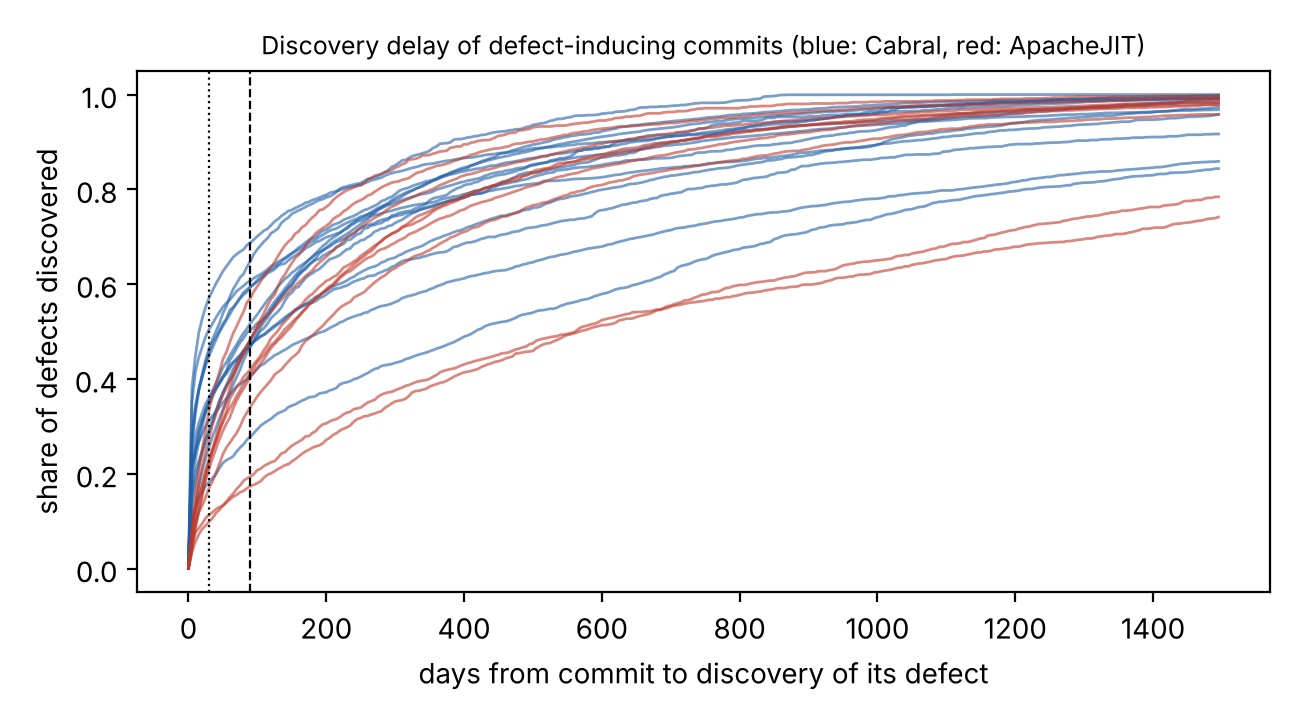
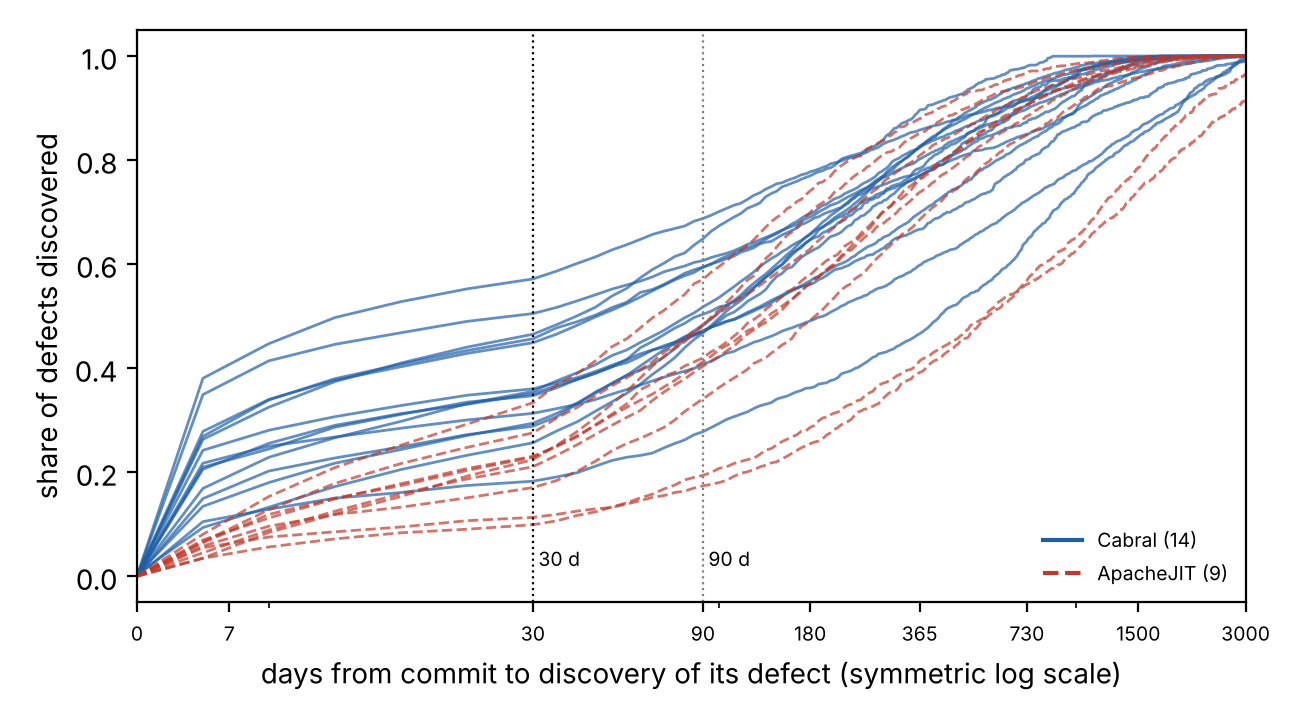
WIP review round 2: manuscript v3 edits in progress (abstract, contributions, related-work corrections, Section 3), figures 1-2 redrawn, partial B1 runs
Claude-Session: https://claude.ai/code/session_01X8Hq385hhQTCDDeL4of4ap

diff --git a/project/scripts/paper_numbers.py b/project/scripts/paper_numbers.py
@@ -32,7 +32,7 @@ for p in DEV + TEST + AJ:
                      commits=len(d), years=round((d.t.max() - d.t.min()) / DAY / 365.25, 1), defect_rate=d.y.mean(),
                      median_delay_d=np.median(dl[fin]), p90_delay_d=np.percentile(dl[fin], 90),
                      found_after_90d=float((dl[fin] > 90).mean())))
-    g = np.arange(0, 1500, 5); curves[p] = (g, [(dl[fin] <= a).mean() for a in g])
+    g = np.arange(0, 3001, 5); curves[p] = (g, [(dl[fin] <= a).mean() for a in g])
 T1 = pd.DataFrame(rows).set_index("project")
 md(T1.round({"defect_rate": 3, "median_delay_d": 0, "p90_delay_d": 0, "found_after_90d": 3}), "T1_datasets.md")
 N["n_commits_total"] = int(T1.commits.sum()); N["n_projects"] = len(T1)
@@ -45,10 +45,15 @@ for fam in ["Cabral", "ApacheJIT"]:
     N[f"{fam}_commits"] = int(t.commits.sum())
 fig, ax = plt.subplots(figsize=(6.5, 3.6))
 for p, (g, c) in curves.items():
-    ax.plot(g, c, color="#c0392b" if p.startswith("aj_") else "#1f5fa8", alpha=.6, lw=1)
-ax.axvline(30, ls=":", c="k", lw=.8); ax.axvline(90, ls="--", c="k", lw=.8)
-ax.set_xlabel("days from commit to discovery of its defect"); ax.set_ylabel("share of defects discovered")
-ax.set_title("Discovery delay of defect-inducing commits (blue: Cabral, red: ApacheJIT)", fontsize=9)
+    aj = p.startswith("aj_")
+    ax.plot(g, c, color="#c0392b" if aj else "#1f5fa8", ls="--" if aj else "-", alpha=.7, lw=1)
+ax.axvline(30, ls=":", c="k", lw=.8); ax.axvline(90, ls=":", c="grey", lw=.8)
+ax.text(30, 0.02, " 30 d", fontsize=7); ax.text(90, 0.02, " 90 d", fontsize=7)
+from matplotlib.lines import Line2D
+ax.legend([Line2D([], [], color="#1f5fa8", ls="-"), Line2D([], [], color="#c0392b", ls="--")], ["Cabral (14)", "ApacheJIT (9)"], fontsize=7, frameon=False, loc="lower right")
+ax.set_xscale("symlog", linthresh=30); ax.set_xlim(0, 3000)
+ax.set_xticks([0, 7, 30, 90, 180, 365, 730, 1500, 3000]); ax.set_xticklabels(["0", "7", "30", "90", "180", "365", "730", "1500", "3000"], fontsize=7)
+ax.set_xlabel("days from commit to discovery of its defect (symmetric log scale)"); ax.set_ylabel("share of defects discovered")
 fig.tight_layout(); fig.savefig(P / "figures" / "F1_discovery_delay.png", dpi=200); plt.close(fig)
 
 # ---------------------------------------------------------------- T2 RQ1 label noise under waiting (model-free)
@@ -83,16 +88,20 @@ N["rq2_gap_share_aj_W30"] = S["E8_secondary_H3_decomposition"]["gap_recovered_sh
 N["rq2_gap_share_aj_per_project_range"] = [min(S["E8_secondary_H3_decomposition"]["gap_recovered_share_per_project"].values()), max(S["E8_secondary_H3_decomposition"]["gap_recovered_share_per_project"].values())]
 N["rq2_tests_cabral"] = S["E3b_H3_denoised_W30_vs_wait"]; N["rq2_tests_aj"] = S["E8_secondary_H3_replication"]
 SH = json.load(open(R / "review1" / "shapley.json"))
-fig, axs = plt.subplots(1, 2, figsize=(8, 3.4), sharey=True)
-for ax, (fam, P_, lab, col) in zip(axs, [("cabral_test", TEST, "Cabral test (10)", "#1f5fa8"), ("apachejit", AJ, "ApacheJIT (9)", "#c0392b")]):
-    for k, (metric, mk) in enumerate([("gmean", "o"), ("auc", "s")]):
+fig, axs = plt.subplots(1, 2, figsize=(8, 3.6), sharey=True)
+for ax, (fam, P_, lab, col), letter in zip(axs, [("cabral_test", TEST, "Cabral test (10)", "#1f5fa8"), ("apachejit", AJ, "ApacheJIT (9)", "#c0392b")], "ab"):
+    for k, metric in enumerate(["gmean", "auc"]):
         g = SH[f"{fam}_{metric}"]["per_project_abs_gain_L1_minus_wait"]; gap = SH[f"{fam}_{metric}"]["per_project_gap_oracle_minus_wait"]
-        names = list(g); x = np.arange(len(names)) + (k - 0.5) * 0.35
-        ax.bar(x, [gap[n] for n in names], width=0.35, color="none", edgecolor=col, lw=1, label=f"oracle - Wait-30 ({metric.upper() if metric=='auc' else 'G-mean'})" if True else None)
-        ax.bar(x, [g[n] for n in names], width=0.35, color=col, alpha=0.9 if metric == "gmean" else 0.45, label=f"true labels - Wait-30 ({'AUC' if metric=='auc' else 'G-mean'})")
+        names = list(g); x = np.arange(len(names)) + (k - 0.5) * 0.38
+        ax.bar(x, [g[n] for n in names], width=0.38, color=col, alpha=0.9 if metric == "gmean" else 0.4, hatch=None if metric == "gmean" else "///", edgecolor="white", lw=0)
+        ax.scatter(x, [gap[n] for n in names], marker="_", s=90, c="k", zorder=3, lw=1.6)
     ax.set_xticks(np.arange(len(names))); ax.set_xticklabels(names, rotation=60, ha="right", fontsize=7); ax.axhline(0, c="k", lw=.6)
-    ax.set_xlabel(lab, fontsize=8)
-axs[0].set_ylabel("absolute difference"); axs[1].legend(fontsize=6, loc="upper right")
+    ax.set_xlabel(lab, fontsize=8); ax.text(0.01, 0.97, f"({letter})", transform=ax.transAxes, va="top", fontsize=9, weight="bold")
+from matplotlib.patches import Patch
+from matplotlib.lines import Line2D as _L
+axs[0].set_ylabel("absolute difference")
+axs[1].legend([Patch(color="grey", alpha=0.9), Patch(facecolor="grey", alpha=0.4, hatch="///"), _L([], [], marker="_", ls="", c="k", ms=10, mew=1.6)],
+              ["true-label gain over Wait-30, G-mean (left bar)", "same, AUC (right bar)", "gap oracle - Wait-30 (same metric)"], fontsize=6, loc="upper right", frameon=False)
 fig.tight_layout(); fig.savefig(P / "figures" / "F2_gap_recovered.png", dpi=200); plt.close(fig)
 for k in SH: N["review1_" + k] = {kk: vv for kk, vv in SH[k].items()}
 rows3b = []
@@ -267,6 +276,26 @@ N["lineage2_odasc_tests"] = [_cmp0(_l2.loc["odasc_W30"], _l2.loc["wait_W90"], "l
 _e8 = df[(df.experiment == "E8") & df.project.isin(AJ)].groupby(["variant", "project"]).gmean.mean().unstack()[AJ]
 _d = (_e8.loc["odasc_W30_t0.8"] - _e8.loc["wait_W90"]); _n = len(_d)
 N["h6_paired_sd"] = f4(_d.std(ddof=1)); N["h6_mde_80pct_unadjusted"] = f3((_st0.t.ppf(0.975, _n - 1) + _st0.t.ppf(0.8, _n - 1)) * _d.std(ddof=1) / np.sqrt(_n))
+
+# ---------------------------------------------------------------- review round 2 numbers (plan_v9 and reviewer requests)
+_e1 = df[(df.experiment == "E1") & df.project.isin(TEST)].groupby(["variant", "project"]).auc.mean().unstack()[TEST]
+_e3b = df[(df.experiment == "E3b") & df.project.isin(TEST)].groupby(["variant", "project"]).auc.mean().unstack()[TEST]
+N["r2_auc_law_vs_wait90_cabral"] = _cmp0(_e1.loc["law_lagakos_model"], _e1.loc["wait_W90"], "AUC: LAW vs Wait-90 (Cabral test)")
+N["r2_auc_wait30_vs_wait90_cabral"] = _cmp0(_e3b.loc["wait_W30"], _e3b.loc["wait_W90"], "AUC: Wait-30 vs Wait-90 (Cabral test)")
+N["r2_auc_wait30_cabral"] = f3(_e3b.loc["wait_W30"].mean())
+N["r2_simple_effects_window"] = {fam: {m: dict(observed_labels=f3(SH[f"{fam}_{m}"]["cells_mean"]["nowait"] - SH[f"{fam}_{m}"]["cells_mean"]["wait_W30"]),
+                                               true_labels=f3(SH[f"{fam}_{m}"]["cells_mean"]["oracle"] - SH[f"{fam}_{m}"]["cells_mean"]["L1_W30"])) for m in ["auc", "gmean"]}
+                                 for fam in ["cabral_test", "apachejit"]}
+_nd = {}
+for _p in DEV + TEST:
+    _dd = load_project(_p); _nd[_p] = int(((_dd.y == 1) & ~np.isfinite(_dd.t_found)).sum())
+N["cabral_defective_never_discovered_total"] = int(sum(_nd.values()))
+N["h6_mde_80pct_holm2"] = f3((_st0.t.ppf(1 - 0.025 / 2, _n - 1) + _st0.t.ppf(0.8, _n - 1)) * _d.std(ddof=1) / np.sqrt(_n))
+FC = json.load(open(R / "review1" / "flip_counts.json"))
+N["b2_flip_share"] = {}
+for fam, P_ in [("cabral_test", TEST), ("apachejit", AJ)]:
+    for W in ["30", "90"]:
+        f_ = np.array([FC[p][W]["flips"] for p in P_]); N["b2_flip_share"][f"{fam}_W{W}"] = [f3(x) for x in (f_ / f_.sum(1, keepdims=True)).mean(0)]
 
 # ---------------------------------------------------------------- bookkeeping numbers
 vt = pd.read_csv(ROOT / "state" / "variants_tried.csv"); vta = pd.read_csv(ARCH / "state" / "variants_tried.csv")

diff --git a/project/paper/manuscript.md b/project/paper/manuscript.md
@@ -6,26 +6,7 @@
 
 ## Abstract
 
-**Context.** Online just-in-time software defect prediction (JIT-SDP) flags risky commits as they arrive and retrains as labels come in. A commit's defect label is known only after a later fix is traced back to it, which takes a median of 16–568 days per project in our data. The usual remedy is to wait W days before trusting a "clean" label, which is read as a trade-off between label noise and stale data.
-
-**Objective.** We measure how much of the accuracy lost to this verification latency comes from wrong labels and how much from missing recent data, which commits carry the harmful labels, and whether practical corrections recover the loss.
-
-**Method.** We use a prequential simulation with one shared LightGBM learner on 23 projects (331,937 commits):
-- 4 Cabral et al. projects for development;
-- 10 held-out Cabral projects;
-- 9 ApacheJIT projects as a fresh confirmation set.
-
-A 2×2 factorial design (labels observed/true × training window waited/complete) with a Shapley split and project-bootstrap intervals separates the two causes. Confirmatory runs used configurations committed to the repository before the run.
-
-**Results.**
-- **W = 30.** True labels on the same waited-out training commits close 0.81 [0.74, 0.86] (Cabral test) and 0.92 [0.89, 0.95] (ApacheJIT) of the AUC gap to an oracle. Adding the recent commits contributes nothing on average (Shapley freshness effect −0.004 and −0.001 AUC).
-- **W = 90, the tuned wait.** Labels remain the larger factor (Shapley share 0.74 and 0.97 of the AUC gap). On Cabral, recent data also matters (+0.023 AUC), but only once its labels are correct.
-- **Where the harmful labels sit.** Relabelling only training commits aged 30–180 days yields 0.83 (Cabral) and 0.49 (ApacheJIT) of the full AUC gain. Relabelling commits older than one year adds at most 0.004.
-- **Age-only corrections** do not beat a 90-day wait.
-- **Feature-based denoisers** beat it on the reused Cabral test set but tie it on fresh data.
-- **A latency-aware decision threshold** repairs policies with a distorted class prior (No-wait +0.0695 G-mean on ApacheJIT, 9/0, Holm p = 0.027) but adds nothing to well-calibrated ones.
-
-**Conclusion.** The latency penalty is mainly caused by defects that are one to six months old and still undiscovered. Methods should target these commits, and studies should report ranking and operating-point metrics separately.
+Online just-in-time software defect prediction (JIT-SDP) retrains while the labels of recent commits are still unknown: a defect is found only when a later fix points back to it, a median of 16–568 days later in our data. The usual remedy, waiting W days before trusting a "clean" label, is read as a trade-off between label noise and stale data. We ask how much of the resulting accuracy loss is caused by wrong labels and how much by missing recent data, which commits carry the harmful labels, and whether practical corrections recover the loss. We run a prequential simulation with one shared learner on 23 projects (331,937 commits): 14 projects of Cabral et al. (4 for development) and 9 ApacheJIT projects as a fresh confirmation set, analysed with a 2×2 factorial design (labels observed or true × training window waited or complete). The two causes interact: recent commits help only once their labels are correct. For a 30-day wait, true labels on the same training commits close 0.81 (Cabral test) and 0.92 (ApacheJIT) of the AUC gap to an oracle. For the tuned 90-day wait they close 0.44 and 0.78, and a Shapley split still attributes most of the gap to labels (0.74 and 0.97). Training commits aged 30–180 days hold about a third of the false-clean labels but yield 0.83 and 0.49 of the AUC gain; commits older than a year yield almost none. Age-only corrections, feature-based denoisers and a latency-aware threshold did not reliably beat a 90-day wait on the fresh data. Methods should target recent defects that are still undiscovered.
 
 **Keywords:** just-in-time defect prediction; verification latency; label noise; online learning; data streams; empirical software engineering
 
@@ -37,31 +18,28 @@ Just-in-time software defect prediction (JIT-SDP) helps teams decide which incom
 
 In the projects studied here, discovery takes a median of 16 to 568 days per project, and the 90th percentile ranges from 383 to 2811 days (Table 1, Fig. 1). At any moment the most recent "clean" commits are therefore only *provisionally* clean. Fix-inducing changes are a moving target over time (McIntosh & Kamei 2018), and ignoring time order inflates offline estimates (Falessi et al. 2020).
 
-The established remedy is the *waiting-time* rule of Cabral et al. (2019): a commit is used as a clean training example only after W days without a discovered defect. Later work treats the choice of W as a trade-off between label noise and staleness and studies how to evaluate under it (Cabral & Minku 2023; Song et al. 2023a; Song & Minku 2023). Other work estimates the confidence of waited-out clean labels (ODaSC; Song et al. 2022) or brings in human labels (Song et al. 2023b). Recent journal papers on JIT-SDP, including MSTDP in this journal (Liu et al. 2026), evaluate offline with final labels and do not model verification latency.
+The established remedy is to wait: Tan et al. (2015) introduced a labelling gap for online defect prediction, and the *waiting-time* rule of Cabral et al. (2019) uses a commit as a clean training example only after W days without a discovered defect, while defective commits enter as soon as their defect is found. Later work treats the choice of W as a trade-off between label noise and staleness and studies how to evaluate under it (Cabral & Minku 2023; Song et al. 2023a; Song & Minku 2023). Other work estimates the confidence of waited-out clean labels (ODaSC; Song et al. 2022) or brings in human labels (Song et al. 2023b). Recent journal papers on JIT-SDP, including MSTDP in this journal (Liu et al. 2026), evaluate offline with final labels and do not model verification latency.
 
 Our own starting point was a method. Borrowing the delayed-feedback model of conversion-rate prediction (Chapelle 2014), we weighted each provisionally clean commit by the posterior probability that it hides an undiscovered defect, given its age. **It did not work.** On the ten held-out projects it lost to a tuned 90-day wait by 0.038 G-mean (Section 5.3).
 
-Diagnosing that failure changed the question. We first expected label noise to be a *small* part of the penalty, because waiting barely changes the share of false-clean labels (Section 5.1). We wrote down the hypothesis that true labels would recover less than a third of the gap between waiting and an oracle. **The hypothesis was refuted** (Section 5.2). This paper reports the resulting decomposition, revised and extended in response to reviewers, as an empirical study.
+Diagnosing that failure changed the question. We first expected label noise to be a *small* part of the penalty, because waiting barely changes the share of false-clean labels (Section 5.1). We wrote down the hypothesis that true labels would recover less than a third of the gap between waiting and an oracle. **The hypothesis was refuted** (Section 5.2). This paper reports the resulting decomposition as an empirical study.
 
 **Contributions.**
-1. **A factorial, commit-level decomposition of the online verification-latency penalty**, replicated on two dataset families (Section 5.2, Tables 3–4).
-   - For a 30-day wait the penalty is almost entirely label noise in AUC on both families.
-   - For the tuned 90-day wait labels remain the larger factor, but on Cabral recent data contributes as well, and the two factors interact: fresh data helps only once its labels are right.
-   - The design follows the noisy-versus-clean comparisons of Falessi et al. (2022) and Fan et al. (2021). Our contribution is to apply it to the online waiting setting and to separate noise from freshness.
-2. **Localisation of the harmful labels** (Section 5.2, Table 5, Fig. 3). The recoverable gain comes almost entirely from training commits aged 30–180 days. Relabelling commits older than one year adds nothing. The harmful labels are therefore neither the youngest commits, which waiting already removes, nor long-dormant defects, but defects one to six months old that have not yet been found.
+1. **A factorial decomposition of the online verification-latency penalty into label noise and lost freshness**, replicated on two dataset families (Section 5.2, Tables 3–4). Its main finding is that the two causes are entangled: the commits a wait excludes are the ones whose labels are wrong, and they become valuable only once their labels are right. For a 30-day wait the penalty is almost entirely label noise in AUC on both families; for the tuned 90-day wait the attribution depends on how the interaction is split. True-label comparisons have been made before, in the online setting by Song et al. (2022) and offline by Falessi et al. (2022) and Fan et al. (2021); the separation of noise from freshness is new.
+2. **Localisation of the harmful labels** (Section 5.2, Table 5, Fig. 3). On both families, training commits aged 30–180 days hold about a third of the false-clean labels but yield most of the recoverable gain, while the much larger number of false-clean labels on commits older than a year yields almost none.
 3. **Evidence that age-only corrections cannot recover the penalty**, with a diagnosis (Section 5.3).
-4. **A fresh-data test of feature-based denoisers** (Section 5.4). Two independent ODaSC-style adaptations differ: one beats the 90-day wait on all ten reused Cabral test projects. On fresh data both tie it, and so do our own two variants under the confirmatory criterion.
-5. **An operating-point analysis with a fresh replication** (Section 5.5). A latency-aware threshold repairs policies whose training class prior is distorted. It does not improve well-calibrated policies, and an earlier positive result for it on Cabral did not replicate.
-6. **A reproducible protocol**, with leakage tests, a disclosed history of every configuration ever run on the reused test set (Supplementary Table S3) and a list of deviations from plan (Table 12).
+4. **A fresh-data test of feature-based denoisers and of a latency-aware decision threshold** (Sections 5.4–5.5). On fresh data none reliably beats a tuned 90-day wait. One ODaSC-style adaptation beats it on the reused Cabral test set, and a threshold result obtained on that set did not replicate.
 
-**Terminology.**
+The protocol, the complete history of configurations run on the reused test set (Supplementary Table S3) and the deviations from plan (Table 12) are released with the paper, so that method papers can measure themselves against the true-label bound.
+
+@@TERMTABLE@@
 
 | Term | Meaning here |
 |:--|:--|
 | Verification latency | Time between a commit and the moment its defect label becomes known (first linked fix). |
 | Provisionally clean | A commit with no discovered defect *yet*. |
 | False-clean | Provisionally clean but defect-inducing according to the final labels. |
-| Wait-W | Clean labels are trusted only after W days (Cabral et al. 2019). |
+| Wait-W | Clean labels are trusted only after W days (Tan et al. 2015; Cabral et al. 2019). |
 | Prequential | Each commit is predicted on arrival, then used for training once its label is available. |
 | SZZ | Algorithm that links bug-fixing commits back to the commits that introduced the bug. |
 | L1 / L2 | Decomposition levels: L1 = the Wait-W training set with true labels; L2 = L1 plus young, not-yet-discovered defective commits. |
@@ -75,17 +53,19 @@ Diagnosing that failure changed the question. We first expected label noise to b
 
 JIT-SDP predicts whether a commit induces a defect from change metrics such as size, diffusion, history and developer experience (Kamei et al. 2013). Labels are usually produced by SZZ. SZZ itself introduces errors (Fan et al. 2021; Rosa et al. 2021; Herbold et al. 2022; Guo et al. 2024; Bludau & Pretschner 2026), and label noise in general harms defect models (Kim et al. 2011; Tantithamthavorn et al. 2015; Liu et al. 2023).
 
-Online JIT-SDP evaluates prequentially (Tan et al. 2015; Cabral et al. 2019; Tabassum et al. 2023; Cabral et al. 2023; Sahar et al. 2024). Cabral et al. (2019) introduced the waiting-time rule together with ORB, an online bagging scheme for class-imbalance evolution. Cabral & Minku (2023) showed that concept drift combined with verification latency impairs the stability of online JIT-SDP, and proposed an approach for more stable predictive performance. Song et al. (2023a) showed that retrospective evaluation can misjudge methods if waiting time is not modelled. Song & Minku (2023) proposed a procedure that evaluates JIT-SDP models continuously during development under verification latency. Song et al. (2023b) proposed human labelling to shorten the wait.
+Online JIT-SDP evaluates prequentially (Tan et al. 2015; Cabral et al. 2019; Tabassum et al. 2023; Cabral et al. 2023; Sahar et al. 2024). Cabral et al. (2019) introduced the waiting-time rule together with ORB, an online bagging scheme for class-imbalance evolution. Cabral & Minku (2023) showed that concept drift combined with verification latency impairs the stability of online JIT-SDP, and proposed an approach for more stable predictive performance. Song & Minku (2023) proposed a procedure that evaluates JIT-SDP models continuously during development, and showed that waiting-time label noise affects the validity of such continuous evaluation. Song et al. (2023a) then asked whether the same noise threatens the retrospective evaluation used in research studies. On 13 GitHub projects they found that the choice of waiting time had no significant impact on validity and that even short waits gave high validity. Song et al. (2023b) proposed human labelling to shorten the wait, and Liu et al. (2025) revisited that approach under practical conditions, finding that human feedback improves online JIT-SDP by providing training commits with better label quality.
+
+The finding of Song et al. (2023a) concerns *evaluation*: whether scores computed against waited-out labels rank models correctly. Our study concerns *training*: how much the model itself loses by learning from waited-out labels. The two are compatible. Evaluation labels in our design are final labels, so the evaluation is not affected by waiting at all, and a noise level that leaves the ranking of evaluated models unchanged can still change what a model learns.
 
 For data streams in general, delayed labels have been studied as a drift-detection problem (Zliobaite 2010), with infinitely delayed labels (Souza et al. 2015), for temporally evolving streams (Plasse & Adams 2016), as an evaluation problem (Grzenda et al. 2020) and in a recent survey (Gomes et al. 2023).
 
 ### 2.2 One-sided label noise and dormant defects
 
-A defect discovered after the wait leaves a wrongly clean example behind, so the noise is one-sided. ODaSC (Song et al. 2022) is the closest prior work. It estimates the confidence of each waited-out clean label from the class composition of feature-space micro-clusters and counts low-confidence examples as both classes.
+A defect discovered after the wait leaves a wrongly clean example behind, so the noise is one-sided. ODaSC (Song et al. 2022) is the closest prior work. It estimates the confidence of each waited-out clean label from the class composition of feature-space micro-clusters and uses that confidence to modulate the oversampling rate of an online bagging ensemble of Hoeffding trees. Song et al. (2022) also ran two true-label benchmarks in the same online waiting setting: ODaSC-opt, which uses the optimal label confidence (one if the observed label is correct, zero otherwise), and ODaSC-flt, which removes the false-clean examples. On the first 10,000 commits of 14 projects with a 15-day wait, both benchmarks were statistically indistinguishable from ODaSC with estimated confidences (p = 0.7278 and 0.6932), and ODaSC beat online bagging trained on observed labels. This is the closest precedent for our L1 condition. It differs in three ways: it reweights or filters the noisy examples rather than relabelling them as defective, it uses one short wait, and it does not separate noise from freshness. We return to the difference in effect size in Section 6.2.
 
-On release-level data, Ahluwalia et al. (2019) and Falessi et al. (2022) showed that classes whose defects are still dormant ("snoring") lower prediction accuracy. Falessi et al. (2022) compared models trained on dormant-noisy and on clean labels, and showed that discarding the most recent releases helps. Vandehei et al. (2021) used the defect life cycle to label affected versions, and Chen et al. (2014) studied dormant bugs directly. Fan et al. (2021) used the same noisy-versus-clean design to measure the cost of SZZ mislabelling in JIT-SDP. Tian et al. (2026) combine waiting time with test feedback.
+On release-level data, Ahluwalia et al. (2019) and Falessi et al. (2022) showed that classes whose defects are still dormant ("snoring") lower prediction accuracy. Falessi et al. (2022) compared models trained on dormant-noisy and on clean labels. As a countermeasure they removed the classes labelled non-defective in the last releases while keeping the defective ones, which is the release-level counterpart of Wait-W. Removing one release helped, but the gain was particularly small in AUC, and removing more than one release reduced precision. Vandehei et al. (2021) used the defect life cycle to label affected versions, and Chen et al. (2014) studied dormant bugs directly. Fan et al. (2021) used the same noisy-versus-clean design to measure the cost of SZZ mislabelling in JIT-SDP. Tian et al. (2026) combine waiting time with test feedback.
 
-We adopt the noisy-versus-clean design of these studies. What is new here is applying it to the online, commit-level waiting setting, separating noise from freshness with a factorial design, and locating the harmful labels by age.
+We adopt the noisy-versus-clean design of these studies. What is new here is separating noise from freshness with a factorial design, at more than one waiting time, and locating the harmful labels by age.
 
 ### 2.3 Delayed feedback and positive-unlabeled learning
 
@@ -95,17 +75,24 @@ Viewed as positive-unlabeled learning, the label frequency here depends on age (
 
 ### 2.4 Claim, closest prior work and difference
 
+@@CLAIMTABLE@@
+
 | Claim | Closest prior work | Exact difference |
 |:--|:--|:--|
-| C1: the online latency penalty is mainly label noise, and how much depends on W | Falessi et al. 2022; Fan et al. 2021 (noisy-vs-clean designs) | Online prequential waiting setting; factorial split of noise vs freshness with CIs; both W = 30 and the tuned W = 90; two dataset families |
-| C2: the harmful labels are on commits aged 30–180 days | Falessi et al. 2022 (dormant defects in recent releases) | Commit level, measured by age band at each retraining |
+| C1: noise and lost freshness are entangled; for short waits the penalty is label noise | Song et al. 2022 (ODaSC-opt/flt, online, W = 15); Falessi et al. 2022; Fan et al. 2021 | Factorial split of noise vs freshness with interaction and CIs; W = 30 and the tuned W = 90; relabelling rather than reweighting; two dataset families |
+| C2: the harmful labels are on commits aged 30–180 days, although most false-clean labels are older | Falessi et al. 2022 (dormant defects in recent releases) | Commit level, by age band at each retraining, normalised by the number of false-clean labels per band |
 | C3: age-only corrections do not recover it | Cabral et al. 2019 (waiting); Chapelle 2014 (delay posterior) | Truncation-corrected delay posterior tested in JIT-SDP, with diagnosis |
-| C4: the gain from feature-based denoising (kNN adaptation of ODaSC) depends on dataset and implementation | Song et al. 2022 (ODaSC) | Two independent adaptations, shared learner, fresh dataset |
+| C4: the gain from kNN adaptations of ODaSC depends on dataset and implementation | Song et al. 2022 (ODaSC) | Two independent adaptations (a different mechanism from the original), shared learner, fresh dataset |
 | C5: a latency-aware threshold helps only policies with a distorted prior | Cabral et al. 2019 (ORB, class-imbalance evolution); Cabral & Minku 2023 (drift and latency harm stability) | Decision-threshold effect isolated per policy, like for like, with fresh replication |
 
 ### 2.5 Positioning with respect to this journal
 
 The only JIT-SDP paper we found in this journal since 2023 is MSTDP (Liu et al. 2026). It evaluates offline, on one chronological 80/20 split of nine of the same Cabral projects, and trains on final labels. Under our protocol that corresponds to the *oracle* condition, which no deployed model can reach. The results are therefore not directly comparable, and we make no claim of outperforming it. The MSTDP row counts match the raw ARFF files, which include discovery-time copy rows (Section 4.1). We could not tell from the paper whether these rows were removed before training.
+
+A diagnostic study can be useful to readers of a journal that mostly publishes new methods for three reasons:
+- It shows where a new method has room to win. The true-label condition (0.762 G-mean on ApacheJIT at W = 30) is an upper target. The best deployable method we tested reached 0.735, and a tuned 90-day wait 0.716.
+- It shows which inputs a method must use. Age alone cannot help (RQ3), and the evidence must separate defective from clean commits within the 30–180-day band (RQ2).
+- It shows how to evaluate. Offline evaluation with final labels, as in most JIT-SDP papers, measures the oracle condition, and fixed-threshold G-mean can reward a threshold shift rather than better learning (RQ5). The released simulator lets method papers report deployable numbers against the same bounds.
 
 ## 3 Study design
 
@@ -127,13 +114,17 @@ All label policies share one learner: LightGBM with 150 trees, learning rate 0.0
 - **ORB-style weighting (ORB-W).** Wait-W, with the class weights multiplied by ORB's boosting factors computed from a moving average of predictions (Cabral et al. 2019), using the parameters published there. This is not the original online-bagging ORB with Hoeffding trees. Because it is applied on top of class-balanced weights, it corrects class imbalance twice. We use it only as a second waiting baseline.
 - **Adaptive waiting (AWT).** A per-project, per-update W_T: the smallest age at which the estimated probability that a defect is still undiscovered drops to ε.
 - **Latency-aware weighting (LAW).** Each provisionally clean commit of age a becomes a positive copy with weight q and a negative copy with weight 1 − q, where q = p·S(a)/(1 − p + p·S(a)). S(a), the probability that a defect is still undiscovered at age a, is estimated from discoveries observed before T with the truncation-corrected estimator. The prior p is either the base rate or the previous model's probability.
-- **ODaSC-style.** An adaptation of Song et al. (2022) to the shared learner. Each waited-out clean commit gets a clean-label confidence equal to the share of clean labels among its k nearest labelled neighbours. Below a threshold it is counted as both classes. A kNN neighbourhood replaces DenStream micro-clusters. The two analysis lineages (Section 4.6) implemented this independently and differently (Section 5.4).
+- **ODaSC-style.** An adaptation of Song et al. (2022) to the shared learner. Each waited-out clean commit gets a clean-label confidence equal to the share of clean labels among its k nearest labelled neighbours. Below a threshold it enters training as both classes. This mechanism differs from the original, where the confidence modulates the oversampling rate of online bagging and the "both classes" counting applies only to the micro-cluster statistics. A kNN neighbourhood also replaces the micro-clusters, and our waits (30 or 90 days) differ from the 15 days used by Song et al. (2022). The two analysis lineages (Section 4.6) implemented the rule independently and differently (Section 5.4). Our results are therefore about these adaptations, not about ODaSC itself.
 - **Mature-scorer denoiser (LAW-M).** Our own variant, designed after the diagnosis in Section 5.3. Old provisionally clean commits (age ≥ W) receive the posterior q, with p from scorers trained only on mature commits (age ≥ 365 days) with two-fold cross-fitting.
 - **Dual.** LAW-M combined with the ODaSC-style neighbour share r by a noisy-OR, 1 − (1 − q)(1 − r).
 - **Decomposition (diagnostic only; uses true labels).**
   - **L1:** the training commits of Wait-W, with their true labels.
   - **L2:** L1 plus the young, not-yet-discovered defective commits.
   - **Age strata:** Wait-W, with true labels given only to provisionally clean commits whose age at T lies in one band ([30, 180), [180, 365), [365, 730), ≥ 730 days).
+
+- **Latency-aware threshold (+thr; second lineage).** At each update, the decision threshold for the next commits is the score that maximises G-mean on the last 2,000 scored commits, using only labels observable at T. Not-yet-discovered commits count as soft positives with weight b·S(a)/(1 − b + b·S(a)), where b is the defect rate of mature commits (older than the 90th percentile of the estimated delay) and S the truncation-corrected survival function. A pre-registered alternative ("rate-matching") instead flags the share of commits that were found defective among mature commits.
+
+The second lineage's simulator implements the same protocol (data loader, schedule, learner and parameters, evaluation window) in independently written code. Its fixed-threshold baselines reproduce the main lineage's values exactly (Table 11).
 
 ### 3.3 Factorial decomposition
 
@@ -143,7 +134,7 @@ The four cells
 - No-wait (observed labels, complete window),
 - Oracle (true labels, complete window)
 
-form a 2×2 design. The *label effect* is the Shapley average of the two label contrasts, ½[(L1 − Wait) + (Oracle − No-wait)]. The *freshness effect* is ½[(No-wait − Wait) + (Oracle − L1)]. The two sum to the gap Oracle − Wait. The *interaction* is (Oracle − No-wait) − (L1 − Wait). We also report the noise-first path share, (L1 − Wait)/(Oracle − Wait), which was the decomposition used in the first version of this study. Confidence intervals come from 10,000 project-bootstrap resamples. AUC is the primary metric for the decomposition, because G-mean at a fixed threshold mixes ranking with operating-point shifts (Section 5.5).
+form a 2×2 design. The *label effect* is the Shapley average of the two label contrasts, ½[(L1 − Wait) + (Oracle − No-wait)]. The *freshness effect* is ½[(No-wait − Wait) + (Oracle − L1)]. The two sum to the gap Oracle − Wait. The *interaction* is (Oracle − No-wait) − (L1 − Wait). We also report the noise-first path share, (L1 − Wait)/(Oracle − Wait), the decomposition fixed in our pre-registered plans; it measures what true labels achieve on the waited-out window alone. Confidence intervals come from 10,000 project-bootstrap resamples. AUC is the primary metric for the decomposition, because G-mean at a fixed threshold mixes ranking with operating-point shifts (Section 5.5).
 
 ### 3.4 Research questions
 
@@ -152,6 +143,13 @@ form a 2×2 design. The *label effect* is the Shapley average of the two label c
 - **RQ3** Can corrections that use only commit age recover the penalty?
 - **RQ4** Do feature-based denoisers recover it on fresh data?
 - **RQ5** How much of the measured difference between label policies is an operating-point effect?
+
+**Hypotheses** (each written into a plan before its confirmatory run; Holm families in parentheses):
+- **H1** (RQ3): LAW and adaptive waiting each beat No-wait, Wait-90 and ORB-style-90 on Cabral test (one family of six tests).
+- **H2a** (RQ2, development only): true labels recover less than a third of the Wait–oracle gap. Refuted, and replaced by **H3**: true labels on the Wait-30 set beat Wait-30 and Wait-90 (Cabral test; replicated on ApacheJIT).
+- **H6** (RQ4): the best development denoiser beats Wait-90 and ORB-style-90 on ApacheJIT (two tests).
+- **RQ5, second lineage**: LAW+thr beats Wait-90, ORB-style-90 and its ODaSC-style rule on Cabral test (three tests).
+- **H9a/H9b** (RQ5, fresh replication): LAW+thr beats Wait-90 and the ODaSC-style rule (H9a); for each of five policies, +thr beats the same policy at 0.5 (H9b); one family of seven tests.
 
 ## 4 Experimental setup
 
